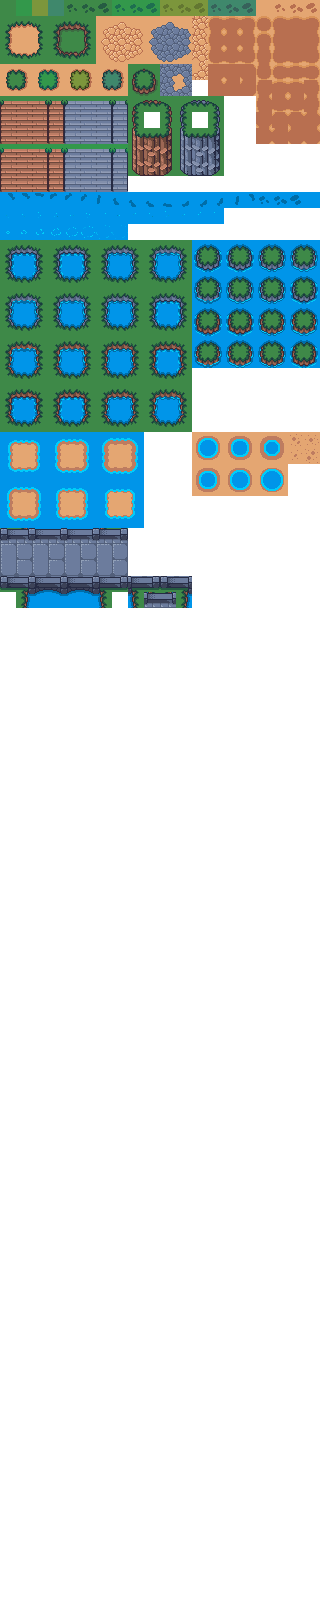
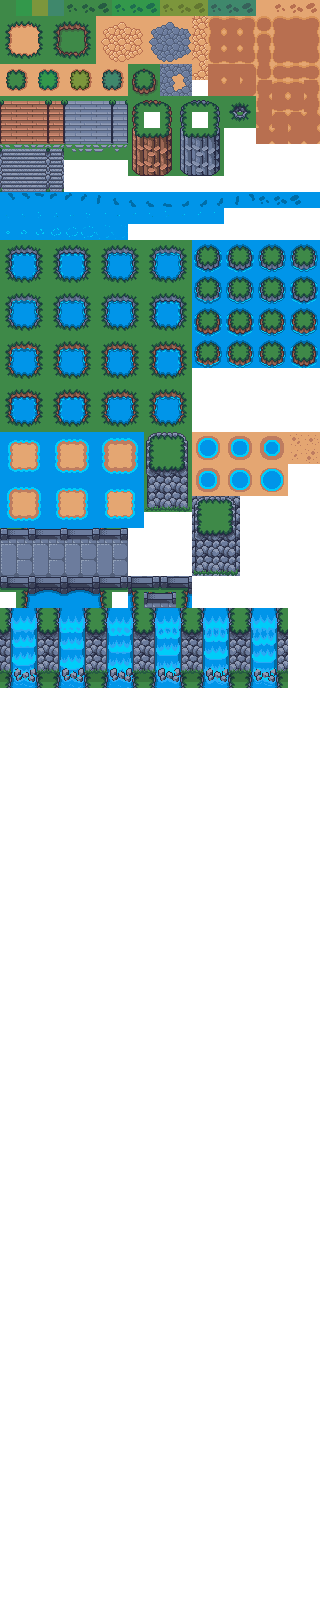
add some objects

Changed region(s): [[0.0, 0.25, 0.9062, 0.4375], [0.0, 0.0938, 0.4062, 0.125], [0.6875, 0.0625, 0.8125, 0.0938]]

diff --git a/src/Main/AssetSetter.java b/src/Main/AssetSetter.java
@@ -4,9 +4,12 @@ import entity.Entity;
 import entity.Fox;
 import entity.GreenSlime;
 import entity.Skeleton;
+import object.BigRock;
+import object.NormalRock;
 import object.OBJ_Chest;
 import object.OBJ_Key;
 import object.OBJ_Oak_tree;
+import object.SmallRock;
 import object.SuperObject;
 
 public class AssetSetter {
@@ -44,6 +47,22 @@ public class AssetSetter {
 		spawnObject(new OBJ_Oak_tree(gp), 178, 120); 
 		spawnObject(new OBJ_Oak_tree(gp), 183, 123); 
 		spawnObject(new OBJ_Oak_tree(gp), 190, 114); 
+		spawnObject(new SmallRock(gp), 125, 125); 
+		spawnObject(new NormalRock(gp), 137, 129); 
+		spawnObject(new NormalRock(gp), 128, 129); 
+		spawnObject(new NormalRock(gp), 142, 133); 
+		spawnObject(new NormalRock(gp), 134, 137); 
+		spawnObject(new NormalRock(gp), 124, 133); 
+		spawnObject(new NormalRock(gp), 134, 125); 
+		spawnObject(new NormalRock(gp), 140, 138); 
+		spawnObject(new NormalRock(gp), 112, 130); 
+		spawnObject(new NormalRock(gp), 147, 118); 
+		spawnObject(new NormalRock(gp), 156, 122); 
+		spawnObject(new NormalRock(gp), 161, 115); 
+		spawnObject(new BigRock(gp), 128, 126); 
+		spawnObject(new BigRock(gp), 144, 139); 
+		spawnObject(new BigRock(gp), 143, 134); 
+		spawnObject(new BigRock(gp), 132, 129); 
 
 	}
 	

diff --git a/src/object/BigRock.java b/src/object/BigRock.java
@@ -1,0 +1,41 @@
+package object;
+import java.util.Random;
+
+import Main.GamePanel;
+
+public class BigRock extends SuperObject {
+	
+	public boolean isOpen = false;
+
+	public BigRock(GamePanel gp) {
+		super(gp);
+		name = "BigRock";
+		int[][] RockList = {{4, 6, 4, 6},
+						    {11, 11, 13, 13}};
+		Random random = new Random();
+		width = gp.tileSize * 2;
+		height = gp.tileSize * 2;
+		collision = true;
+		
+		solidArea.height = gp.tileSize/2;
+		solidArea.width = gp.tileSize * 2 - gp.tileSize/2;
+		solidArea.x = gp.tileSize - solidArea.width/2;
+		solidArea.y = gp.tileSize*2 - solidArea.height*2;
+		solidAreaDefaultX = solidArea.x;
+		solidAreaDefaultY = solidArea.y;
+		
+		objectWidthSize = 32;
+		objectHeightSize = 32;
+		spriteCounter = 0;
+		int i = random.nextInt(4);
+		col = RockList[0][i];
+		row = RockList[1][i];
+		
+		image = Outdoor_decor_sheet.getSubimage(col * 16, row * 16, objectWidthSize, objectHeightSize); 
+
+	}
+
+	public void update() {
+		
+	}
+}

diff --git a/src/object/NormalRock.java b/src/object/NormalRock.java
@@ -1,0 +1,41 @@
+package object;
+import java.util.Random;
+
+import Main.GamePanel;
+
+public class NormalRock extends SuperObject {
+	
+	public boolean isOpen = false;
+
+	public NormalRock(GamePanel gp) {
+		super(gp);
+		name = "NormalRock";
+		int[][] RockList = {{3, 4, 6, 7, 8, 6, 7},
+						    {6, 6, 6, 6, 6, 7 ,7}};
+		Random random = new Random();
+		width = gp.tileSize;
+		height = gp.tileSize;
+		collision = true;
+		
+		solidArea.height = gp.tileSize/2;
+		solidArea.width = gp.tileSize/2;
+		solidArea.x = gp.tileSize/2 - solidArea.width/2;
+		solidArea.y = gp.tileSize/2 - solidArea.height/2;
+		solidAreaDefaultX = solidArea.x;
+		solidAreaDefaultY = solidArea.y;
+		
+		objectWidthSize = 16*gp.tileSize;
+		objectHeightSize = 16*gp.tileSize;
+		spriteCounter = 0;
+		int i = random.nextInt(7);
+		col = RockList[0][i];
+		row = RockList[1][i];
+		
+		image = Outdoor_decor_sheet.getSubimage(col * 16, row * 16, 16, 16); 
+
+	}
+
+	public void update() {
+		
+	}
+}

diff --git a/src/object/SmallRock.java b/src/object/SmallRock.java
@@ -1,0 +1,38 @@
+package object;
+import java.util.Random;
+
+import Main.GamePanel;
+
+public class SmallRock extends SuperObject {
+	
+	public boolean isOpen = false;
+
+	public SmallRock(GamePanel gp) {
+		super(gp);
+		name = "SmallRock";
+		Random random = new Random();
+		width = gp.tileSize;
+		height = gp.tileSize;
+		collision = true;
+		
+		solidArea.height = gp.tileSize/2;
+		solidArea.width = gp.tileSize/2;
+		solidArea.x = gp.tileSize/2 - solidArea.width/2;
+		solidArea.y = gp.tileSize/2 - solidArea.height/2;
+		solidAreaDefaultX = solidArea.x;
+		solidAreaDefaultY = solidArea.y;
+		
+		objectWidthSize = 16;
+		objectHeightSize = 16;
+		spriteCounter = 0;
+		row = 5;
+		col = random.nextInt(2);
+		
+		image = Outdoor_decor_sheet.getSubimage(col * objectWidthSize, row * objectHeightSize, objectWidthSize, objectHeightSize); 
+
+	}
+
+	public void update() {
+		
+	}
+}

diff --git a/src/object/SuperObject.java b/src/object/SuperObject.java
@@ -3,19 +3,28 @@ package object;
 import java.awt.Color;
 import java.awt.Graphics2D;
 import java.awt.image.BufferedImage;
+import java.io.IOException;
+
+import javax.imageio.ImageIO;
 
 import Main.GamePanel;
 import entity.Entity;
 
 public class SuperObject extends Entity{
-	public SuperObject(GamePanel gp) {
-		super(gp);
-	}
+
 	public String name;
 	public boolean interacting = false;
 	int objectWidthSize;
 	int objectHeightSize;
-	
+	BufferedImage Outdoor_decor_sheet;
+	public SuperObject(GamePanel gp) {
+		super(gp);
+		try {
+			Outdoor_decor_sheet = ImageIO.read(getClass().getResourceAsStream("/objects/Outdoor_Decor.png"));
+		} catch(IOException e) {
+			e.printStackTrace();
+		}
+	}	
 	public void update() {
 		
 	}

diff --git a/src/entity/Player.java b/src/entity/Player.java
@@ -63,7 +63,7 @@ public class Player extends Entity {
 		speed = 5;
 		maxLife = 20;
 		life = 18;
-		slowDown = 2;
+		slowDown = 4;
 		direction = "idle";
 	}
 	// GET IMAGE METHODS
@@ -187,7 +187,7 @@ public class Player extends Entity {
 			if (gp.obj[i] != null) {
 				String objectName = gp.obj[i].name;
 				switch (objectName) {
-				case "key":
+				case "Key":
 					gp.playSE(1);
 					keyCount++;
 					gp.obj[i] = null;
@@ -202,7 +202,7 @@ public class Player extends Entity {
 			if (gp.obj[i] != null) {
 			String objectName = gp.obj[i].name;
 			switch (objectName) {
-			case "chest":
+			case "Chest":
 				if (keyCount > 0) {
 					gp.obj[i].interacting = true;
 					System.out.println("open chest");

diff --git a/src/object/OBJ_Chest.java b/src/object/OBJ_Chest.java
@@ -1,14 +1,9 @@
 package object;
-
-import java.awt.Color;
-import java.awt.Graphics2D;
-import java.awt.image.BufferedImage;
 import java.io.IOException;
 
 import javax.imageio.ImageIO;
 
 import Main.GamePanel;
-import tile.Tile;
 
 public class OBJ_Chest extends SuperObject {
 	
@@ -16,7 +11,7 @@ public class OBJ_Chest extends SuperObject {
 
 	public OBJ_Chest(GamePanel gp) {
 		super(gp);
-		name = "chest";
+		name = "Chest";
 		width = gp.tileSize;
 		height = gp.tileSize * 16 / 9;
 		collision = true;

diff --git a/src/entity/GreenSlime.java b/src/entity/GreenSlime.java
@@ -4,16 +4,11 @@ import java.awt.Color;
 import java.awt.Graphics2D;
 import java.awt.Rectangle;
 import java.io.IOException;
-import java.net.URL;
 import java.util.Random;
 
 import javax.imageio.ImageIO;
-import javax.sound.sampled.AudioInputStream;
-import javax.sound.sampled.AudioSystem;
-import javax.sound.sampled.Clip;
 
 import Main.GamePanel;
-import Main.KeyHandler;
 
 public class GreenSlime extends Entity{
 	

diff --git a/src/object/OBJ_Oak_tree.java b/src/object/OBJ_Oak_tree.java
@@ -16,7 +16,7 @@ public class OBJ_Oak_tree extends SuperObject{
 		objectHeightSize = 47;
 		name = "Oak_tree";
 		width = gp.tileSize * 4;
-		height = gp.tileSize * 6;
+		height = gp.tileSize * 5;
 		collision = true;
 		solidArea.height = gp.tileSize - 10;
 		solidArea.width = gp.tileSize / 2;

diff --git a/src/object/OBJ_Key.java b/src/object/OBJ_Key.java
@@ -12,7 +12,7 @@ public class OBJ_Key extends SuperObject{
 	public OBJ_Key(GamePanel gp) {
 
 		super(gp);
-		name = "key";
+		name = "Key";
 		width = gp.tileSize * 2 / 3;
 		height = gp.tileSize * 4 / 3;
 		collision = false;
